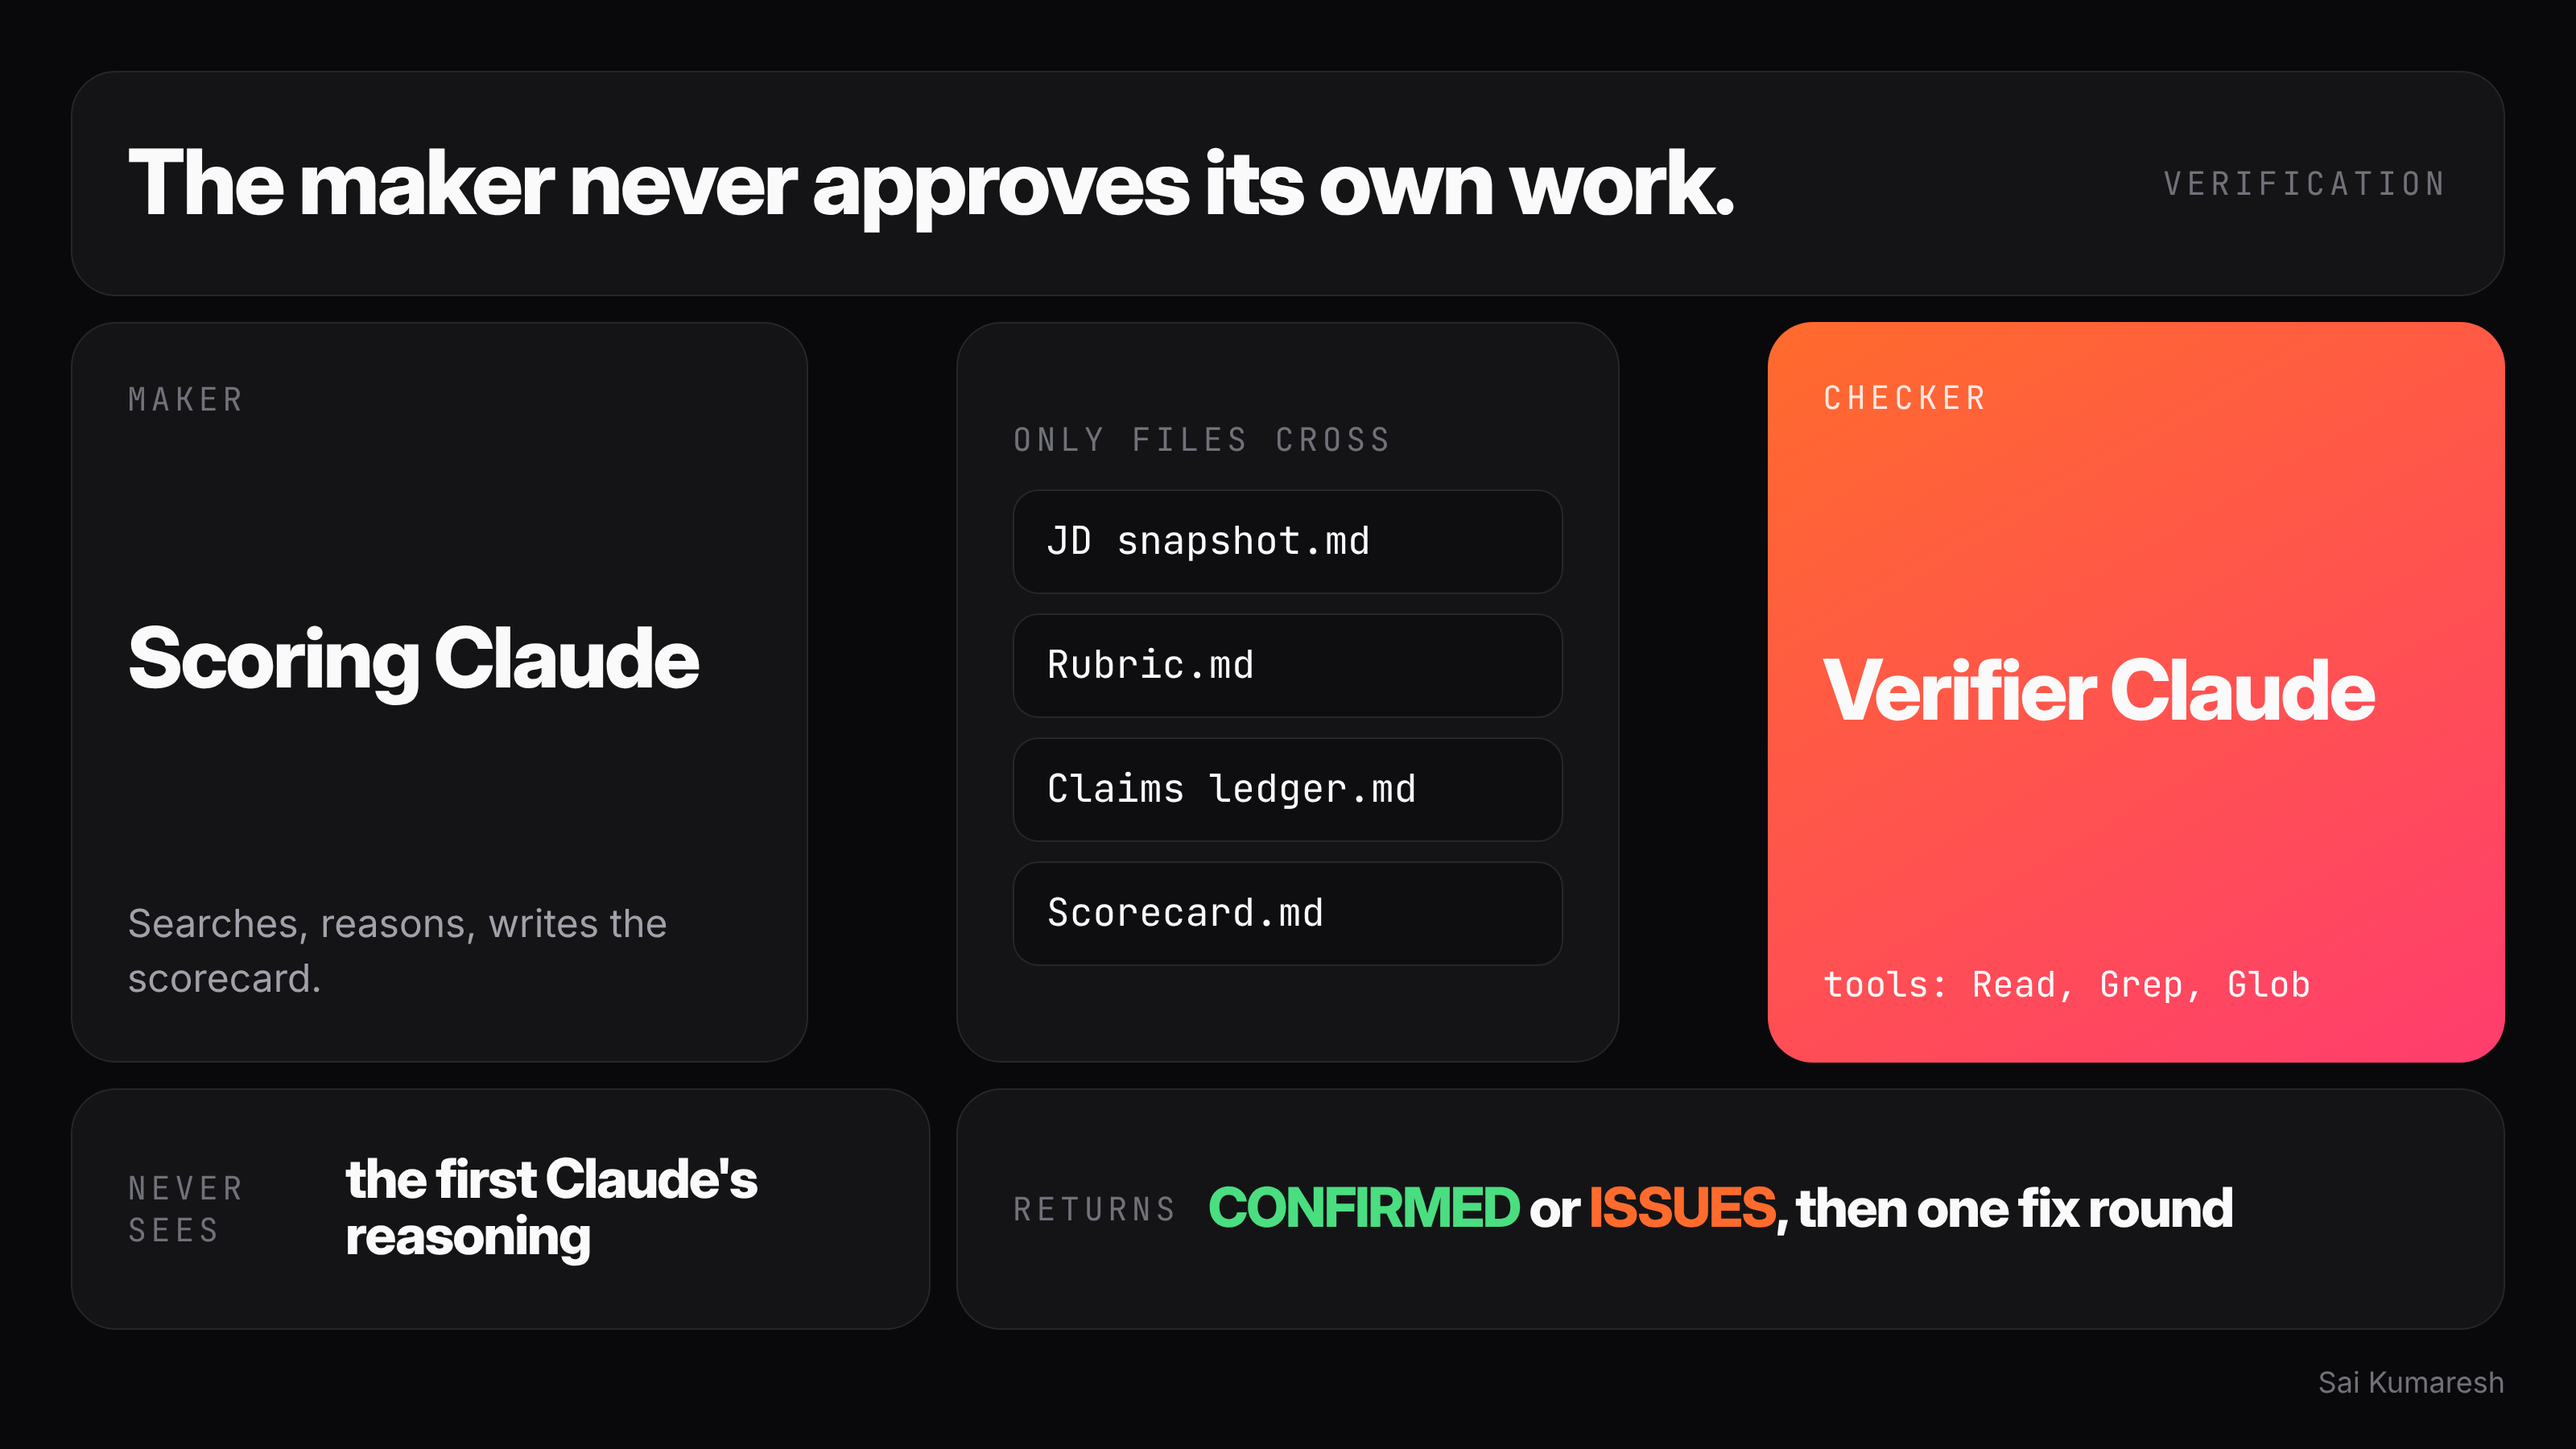
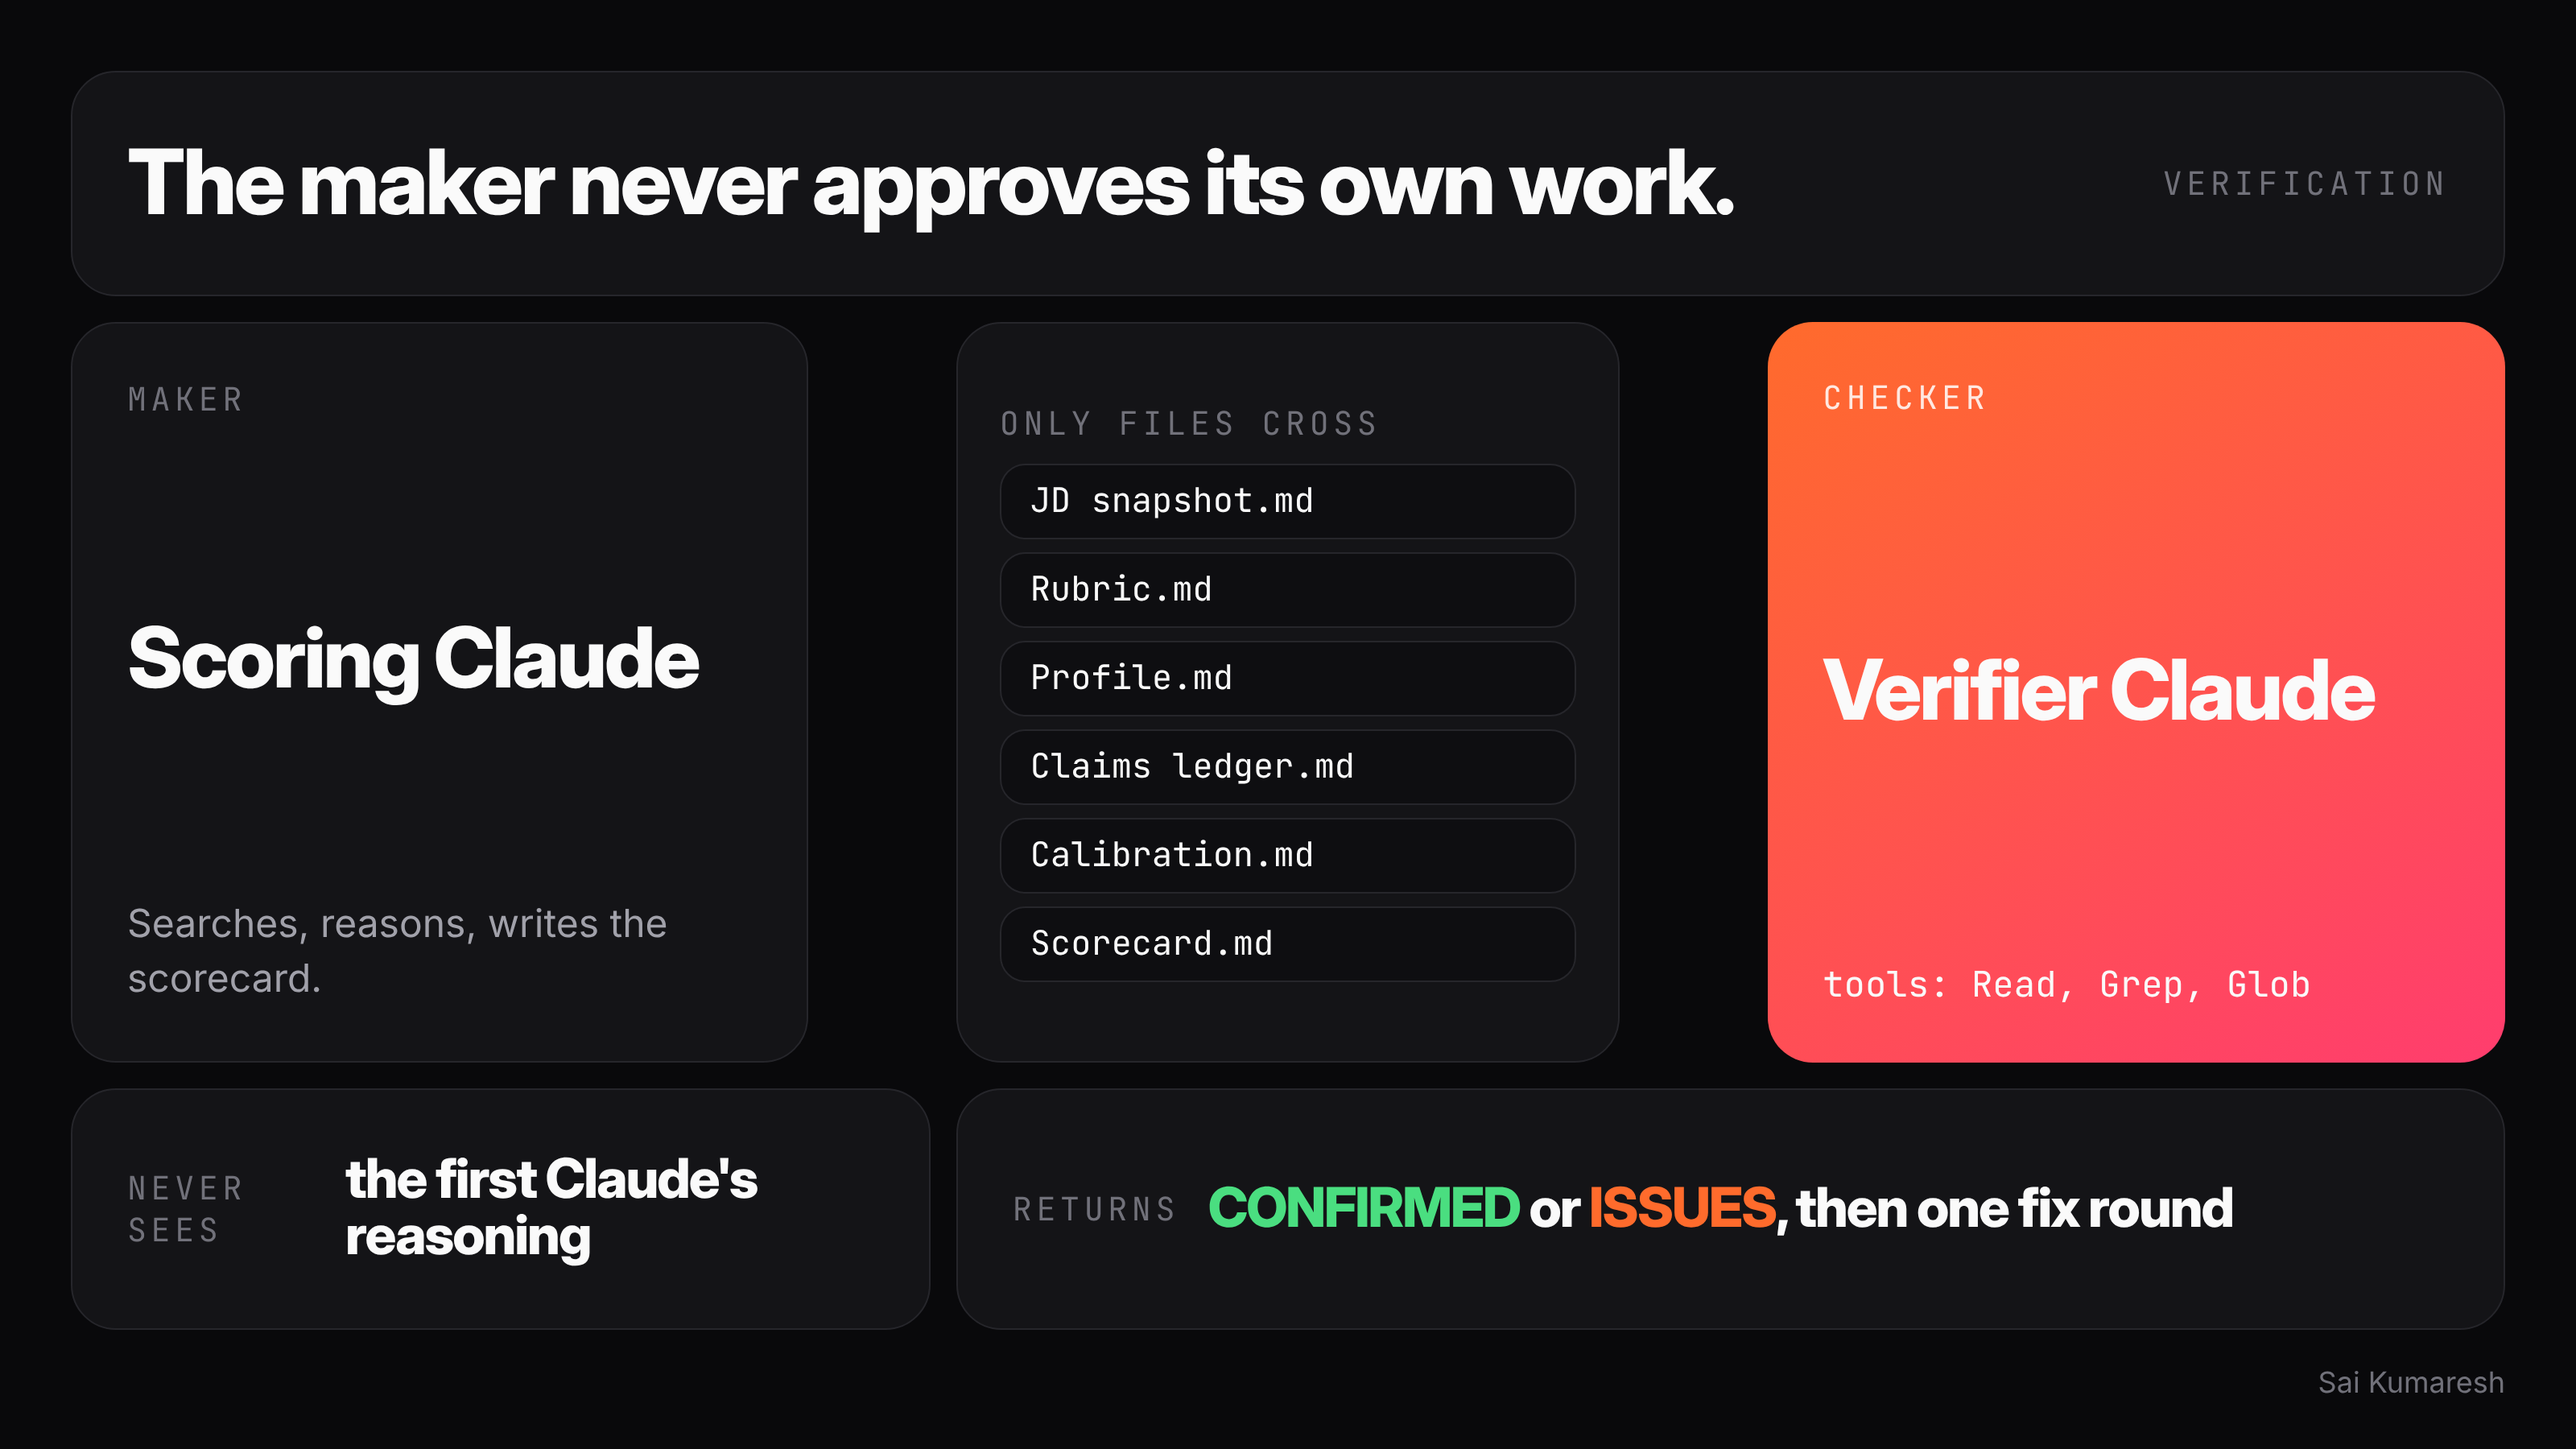
follow-ups never sends; updated visuals
Claude-Session: https://claude.ai/code/session_019MJCLJkfUPHWD53w48MpS4

Changed region(s): [[0.4062, 0.3422, 0.5938, 0.6844], [0.375, 0.28, 0.5312, 0.3111]]

diff --git a/.claude/skills/follow-ups/SKILL.md b/.claude/skills/follow-ups/SKILL.md
@@ -24,4 +24,4 @@ For each due role, draft a note of 90 words or fewer: plain text, one specific r
 Send the drafts and the tracker path to the **verifier** agent. Fix every ISSUES item.
 
 ## 7. Report and stop
-Write `reports/{YYYY-MM-DD}-follow-ups.md` using `context/templates/follow-ups-report.md`. Append one line to `memory/runs.md`. In chat: replies first, then the drafts. Nothing is sent. If the user says "send {company}" in an interactive session, create a Gmail draft the user can send, or send it only if they explicitly ask.
+Write `reports/{YYYY-MM-DD}-follow-ups.md` using `context/templates/follow-ups-report.md`. Append one line to `memory/runs.md`. In chat: replies first, then the drafts. Nothing is sent. If the user says "send {company}" in an interactive session, create a Gmail draft the user can send. Never send it.
